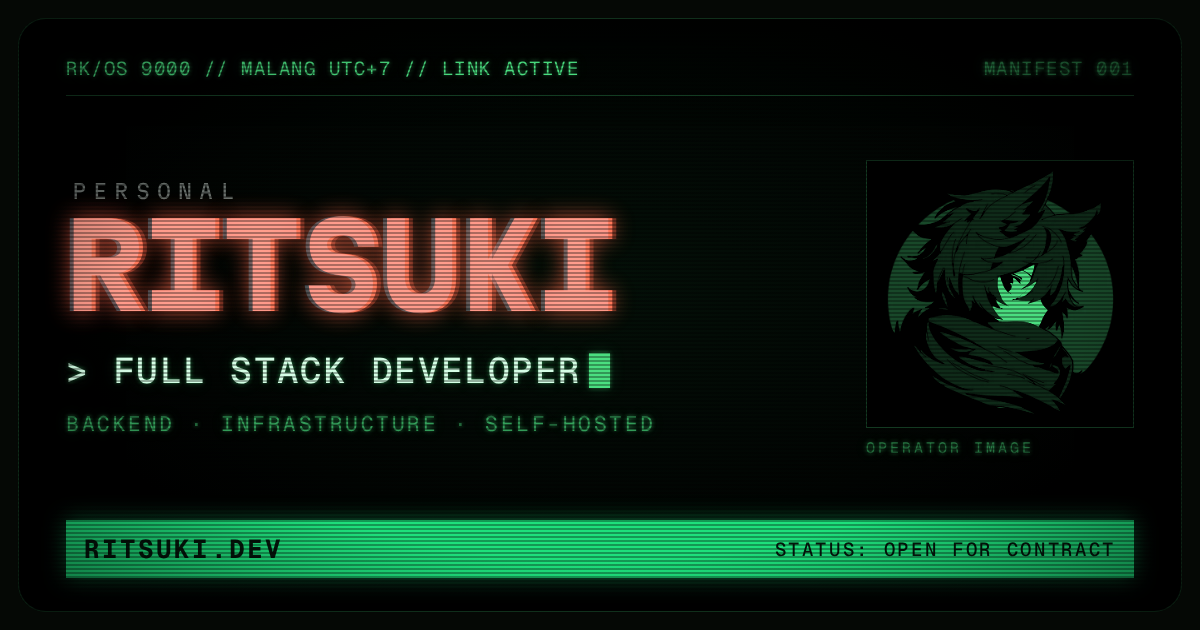
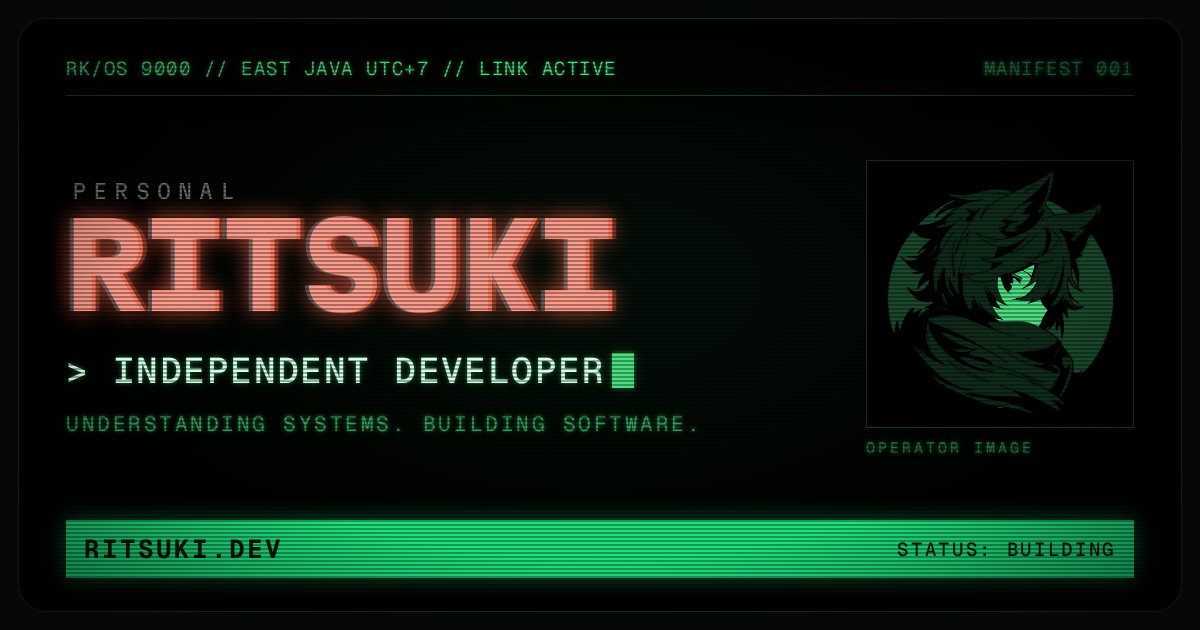
Update information

diff --git a/src/lib/data/content.ts b/src/lib/data/content.ts
@@ -2,8 +2,9 @@ import portrait from '$lib/assets/portrait.webp';
 
 export const PROFILE = {
 	name: 'Ritsuki',
-	role: 'Full stack developer',
-	city: 'Malang',
+	role: 'Independent developer',
+	tagline: 'Understanding Systems. Building Software.',
+	city: 'East Java',
 	country: 'Indonesia',
 	timezone: 'UTC+07:00',
 	email: 'ritsuki.kagerou@gmail.com',
@@ -32,7 +33,7 @@ export const SYSTEM = {
 	wordmark: NAME,
 	manifest: `CARRIER ${NAME} // MANIFEST 001`,
 	footer: `${SYSTEM_UNIT} SERIES / PERSONAL BROADCAST UNIT`,
-	description: `${PROFILE.name} — ${PROFILE.role.toLowerCase()} in ${PROFILE.city}, ${PROFILE.country}. Backend, infrastructure and self-hosted systems. Open for freelance work.`,
+	description: `${PROFILE.name} — ${PROFILE.role.toLowerCase()} in ${PROFILE.city}, ${PROFILE.country}, exploring software, systems and ideas. Backend, infrastructure and self-hosted systems.`,
 	site: 'ritsuki.dev',
 	// search results show the title first: lead with who, then the terminal
 	heading: `${PROFILE.name} — ${PROFILE.role}`,
@@ -45,7 +46,7 @@ export const MENU: MenuEntry[] = [
 	{ id: 'identity', label: 'IDENTITY', blurb: 'Who is running this thing' },
 	{ id: 'capabilities', label: 'CAPABILITY MATRIX', blurb: 'Where the depth actually is' },
 	{ id: 'archive', label: 'WORK ARCHIVE', blurb: 'Systems built and kept running' },
-	{ id: 'transmission', label: 'TRANSMISSION', blurb: 'Open for freelance work' },
+	{ id: 'transmission', label: 'TRANSMISSION', blurb: 'Mail, code and other places' },
 	{ id: 'status', label: 'SYSTEM STATUS', blurb: 'How the work actually goes' }
 ];
 
@@ -74,19 +75,19 @@ export const IDENTITY = {
 		{ key: 'DESIGNATION', value: NAME },
 		{ key: 'ROLE', value: PROFILE.role.toUpperCase() },
 		{ key: 'BASE', value: BASE },
-		{ key: 'ACTIVE SINCE', value: '2026' },
+		{ key: 'ESTABLISHED', value: '2026' },
 		{ key: 'UPLINK', value: PROFILE.timezone },
-		{ key: 'STATUS', value: 'OPEN FOR CONTRACT', tone: 'ok' as const }
+		{ key: 'STATUS', value: 'BUILDING', tone: 'ok' as const }
 	],
 	body: [
-		'Full stack developer. Builds applications, APIs and the systems that carry them — then keeps them running. Most of the work is solo: architecture, implementation, deployment, and the maintenance nobody volunteers for.',
-		'Prefers to understand how a thing works before using it, then find the plainest way to make it work. Self-taught by habit — reads the source, traces a fault to its root, and distrusts complexity that exists only to look advanced. Would rather build the thing than sit in a meeting about building the thing.',
-		'Got here out of curiosity about how computers actually work. That has not changed; only the scale has. Code, then servers, then Linux, then the whole machine and how its parts talk to each other.'
+		`${PROFILE.tagline} Independent developer exploring software, systems, and ideas — turning concepts into working projects. Most projects are built solo, from architecture and implementation to deployment and the ongoing work of keeping things running.`,
+		'Prefers to understand how things work before using them, then find a simple way to make them work. Self-taught by habit — reads the source, traces problems to their roots, and values simplicity over unnecessary complexity. More interested in building something useful than making it look complicated.',
+		"I've always been curious about how computers work, from the code we write to the systems running underneath. That curiosity has led me through software development, Linux, self-hosting, and the infrastructure that connects everything."
 	],
 	marks: [
 		{ label: 'LINUX & SELF-HOSTING', detail: 'runs its own infrastructure' },
-		{ label: 'HOMELAB TINKERER', detail: 'production is a bigger homelab' },
-		{ label: 'CURIOUS BY DEFAULT', detail: 'reads the source, not the summary' }
+		{ label: 'HOMELAB TINKERER', detail: 'experiments locally, deploys deliberately' },
+		{ label: 'CURIOUS BY DEFAULT', detail: 'prefers understanding over assumptions' }
 	]
 };
 
@@ -117,7 +118,7 @@ export const CAPABILITIES: Capability[] = [
 	{
 		code: 'C-03',
 		label: 'DATABASE & DATA SYSTEMS',
-		spec: 'PostgreSQL as the spine, Valkey for cache, ClickHouse for analytics. Schema, indexing, access paths.',
+		spec: 'PostgreSQL for core data, Valkey for caching, ClickHouse for analytics. Schema design, indexing, and query optimization.',
 		tier: 'PRIMARY'
 	},
 	{
@@ -129,7 +130,7 @@ export const CAPABILITIES: Capability[] = [
 	{
 		code: 'C-05',
 		label: 'AUTOMATION & TROUBLESHOOTING',
-		spec: 'Automating repeat work, and reading errors until the real root cause surfaces — not the first symptom.',
+		spec: 'Task automation, log analysis, debugging, and systematic root-cause investigation.',
 		tier: 'PRIMARY'
 	},
 	{
@@ -281,8 +282,11 @@ export type TerminalCard = {
 	href: string;
 };
 
+export type ChannelIcon = 'mail' | 'github' | 'x' | 'steam';
+
 export type Channel = {
 	code: string;
+	icon: ChannelIcon;
 	label: string;
 	handle: string;
 	href: string;
@@ -291,12 +295,11 @@ export type Channel = {
 
 export const TRANSMISSION = {
 	title: 'TRANSMISSION',
-	intro: [
-		'Open for freelance work — backend, infrastructure, or the whole stack when it is better handled by one person who understands all of it. Mail is the fastest route; the other channels are open too.'
-	],
+	intro: ['Mail is the fastest route. Code lives on GitHub; shorter thoughts end up on X.'],
 	channels: [
 		{
 			code: 'TX-01',
+			icon: 'mail',
 			label: 'MAIL',
 			handle: PROFILE.email,
 			href: `mailto:${PROFILE.email}`,
@@ -304,6 +307,7 @@ export const TRANSMISSION = {
 		},
 		{
 			code: 'TX-02',
+			icon: 'github',
 			label: 'GITHUB',
 			handle: `@${PROFILE.github}`,
 			href: `https://github.com/${PROFILE.github}`,
@@ -311,6 +315,7 @@ export const TRANSMISSION = {
 		},
 		{
 			code: 'TX-03',
+			icon: 'x',
 			label: 'X',
 			handle: `@${PROFILE.x}`,
 			href: `https://x.com/${PROFILE.x}`,
@@ -323,6 +328,7 @@ export const TRANSMISSION = {
 		channels: [
 			{
 				code: 'OD-01',
+				icon: 'steam',
 				label: 'STEAM',
 				handle: '/id/_Ritsuki_',
 				href: 'https://steamcommunity.com/id/_Ritsuki_/',
@@ -330,13 +336,8 @@ export const TRANSMISSION = {
 			}
 		] satisfies Channel[]
 	},
-	terminal: {
-		label: 'TERMINAL CARD',
-		command: 'npx ritsuki',
-		note: 'The same manifest, printed in your shell.',
-		href: `https://github.com/${PROFILE.github}/ritsuki-card`
-	} as TerminalCard | null,
-	outro: `Based in ${PROFILE.city}, ${PROFILE.timezone}. Remote by default.`
+	terminal: null as TerminalCard | null,
+	outro: `Based in ${PROFILE.city}, ${PROFILE.timezone}.`
 };
 
 /* --- [5] SYSTEM STATUS ----------------------------------------------- */
@@ -344,7 +345,7 @@ export const TRANSMISSION = {
 export const STATUS = {
 	title: 'SYSTEM STATUS',
 	loopLabel: 'OPERATING LOOP',
-	loopNote: '06 RETURNS TO 01 — THAT IS THE WHOLE METHOD',
+	loopNote: '06 RETURNS TO 01 — REPEAT WITH WHAT YOU LEARNED',
 	stages: [
 		{ label: 'UNDERSTAND', note: 'read the source, not the summary' },
 		{ label: 'BUILD', note: 'smallest thing that can work' },
@@ -354,8 +355,8 @@ export const STATUS = {
 		{ label: 'OPTIMIZE', note: 'only once there are numbers' }
 	],
 	readouts: [
-		{ key: 'AVAILABILITY', value: 'OPEN — FREELANCE' },
-		{ key: 'WORK MODE', value: 'REMOTE / SOLO' },
+		{ key: 'CURRENT FOCUS', value: 'PILIH-IN / KEUANGAN' },
+		{ key: 'WORK MODE', value: 'SOLO' },
 		{ key: 'LOCATION', value: BASE },
 		{ key: 'TIMEZONE', value: PROFILE.timezone }
 	],
@@ -364,7 +365,7 @@ export const STATUS = {
 		{ key: 'COMPONENTS', value: '@RITSUKI.KAGEROU/CRT-UI' },
 		{ key: 'TYPEFACE', value: 'GEIST MONO / MARTIAN MONO' },
 		{ key: 'PALETTE', value: 'PHOSPHOR 4ADE80' },
-		{ key: 'VISUAL DEBT', value: 'NOSTROMO.DESIGN' }
+		{ key: 'DESIGN INFLUENCE', value: 'NOSTROMO.DESIGN' }
 	]
 };
 

diff --git a/src/lib/components/ChannelIcon.svelte b/src/lib/components/ChannelIcon.svelte
@@ -1,0 +1,39 @@
+<script lang="ts">
+	import type { ChannelIcon } from '$lib/data/content';
+
+	type Props = { name: ChannelIcon };
+	let { name }: Props = $props();
+</script>
+
+<!-- Decorative: the label next to it already names the channel. -->
+<svg class="icon" viewBox="0 0 24 24" aria-hidden="true" focusable="false">
+	{#if name === 'github'}
+		<path
+			fill="currentColor"
+			d="M12 .297c-6.63 0-12 5.373-12 12 0 5.303 3.438 9.8 8.205 11.385.6.113.82-.258.82-.577 0-.285-.01-1.04-.015-2.04-3.338.724-4.042-1.61-4.042-1.61C4.422 18.07 3.633 17.7 3.633 17.7c-1.087-.744.084-.729.084-.729 1.205.084 1.838 1.236 1.838 1.236 1.07 1.835 2.809 1.305 3.495.998.108-.776.417-1.305.76-1.605-2.665-.3-5.466-1.332-5.466-5.93 0-1.31.465-2.38 1.235-3.22-.135-.303-.54-1.523.105-3.176 0 0 1.005-.322 3.3 1.23.96-.267 1.98-.399 3-.405 1.02.006 2.04.138 3 .405 2.28-1.552 3.285-1.23 3.285-1.23.645 1.653.24 2.873.12 3.176.765.84 1.23 1.91 1.23 3.22 0 4.61-2.805 5.625-5.475 5.92.42.36.81 1.096.81 2.22 0 1.606-.015 2.896-.015 3.286 0 .315.21.69.825.57C20.565 22.092 24 17.592 24 12.297c0-6.627-5.373-12-12-12"
+		/>
+	{:else if name === 'x'}
+		<path
+			fill="currentColor"
+			d="M18.901 1.153h3.68l-8.04 9.19L24 22.846h-7.406l-5.8-7.584-6.638 7.584H.474l8.6-9.83L0 1.154h7.594l5.243 6.932ZM17.61 20.644h2.039L6.486 3.24H4.298Z"
+		/>
+	{:else if name === 'mail'}
+		<g fill="none" stroke="currentColor" stroke-width="2" stroke-linejoin="round">
+			<rect x="2" y="4.5" width="20" height="15" />
+			<path d="M2 6l10 8 10-8" />
+		</g>
+	{:else if name === 'steam'}
+		<path
+			fill="currentColor"
+			d="M11.979 0C5.678 0 .511 4.86.022 11.037l6.432 2.658c.545-.371 1.203-.59 1.912-.59.063 0 .125.004.188.006l2.861-4.142V8.91c0-2.495 2.028-4.524 4.524-4.524 2.494 0 4.524 2.031 4.524 4.527s-2.03 4.525-4.524 4.525h-.105l-4.076 2.911c0 .052.004.105.004.159 0 1.875-1.515 3.396-3.39 3.396-1.635 0-3.016-1.173-3.331-2.727L.436 15.27C1.862 20.307 6.486 24 11.979 24c6.627 0 11.999-5.373 11.999-12S18.605 0 11.979 0zM7.54 18.21l-1.473-.61c.262.543.714.999 1.314 1.25 1.297.539 2.793-.076 3.332-1.375.263-.63.264-1.319.005-1.949s-.75-1.121-1.377-1.383c-.624-.26-1.29-.249-1.878-.03l1.523.63c.956.4 1.409 1.5 1.009 2.455-.397.957-1.497 1.41-2.454 1.012H7.54zm11.415-9.303c0-1.662-1.353-3.015-3.015-3.015-1.665 0-3.015 1.353-3.015 3.015 0 1.665 1.35 3.015 3.015 3.015 1.663 0 3.015-1.35 3.015-3.015zm-5.273-.005c0-1.252 1.013-2.266 2.265-2.266 1.249 0 2.266 1.014 2.266 2.266 0 1.251-1.017 2.265-2.266 2.265-1.253 0-2.265-1.014-2.265-2.265z"
+		/>
+	{/if}
+</svg>
+
+<style>
+	.icon {
+		width: 1.15em;
+		height: 1.15em;
+		display: block;
+	}
+</style>

diff --git a/src/lib/components/ChannelRow.svelte b/src/lib/components/ChannelRow.svelte
@@ -2,6 +2,7 @@
 	import type { Channel } from '$lib/data/content';
 	import { Typed } from '@ritsuki.kagerou/crt-ui';
 	import { audio } from '$lib/audio.svelte';
+	import ChannelIcon from './ChannelIcon.svelte';
 
 	type Props = { channel: Channel; delay?: number; muted?: boolean };
 	let { channel, delay = 0, muted = false }: Props = $props();
@@ -17,7 +18,7 @@
 	rel={external ? 'me noopener noreferrer' : undefined}
 	onclick={audio.select}
 >
-	<span class="ch__code u-dim">{channel.code}</span>
+	<span class="ch__icon"><ChannelIcon name={channel.icon} /></span>
 	<span class="ch__label">
 		<Typed text={channel.label} speed={18} {delay} ontick={audio.type} />
 	</span>
@@ -29,7 +30,7 @@
 <style>
 	.ch {
 		display: grid;
-		grid-template-columns: 5rem minmax(8rem, 14rem) minmax(0, 1fr) minmax(0, auto) 1.5rem;
+		grid-template-columns: 1.5rem minmax(8rem, 14rem) minmax(0, 1fr) minmax(0, auto) 1.5rem;
 		gap: 1rem;
 		align-items: baseline;
 		padding: 0.85rem 0.9rem;
@@ -55,7 +56,11 @@
 		opacity: 1;
 	}
 
-	.ch__code,
+	.ch__icon {
+		align-self: center;
+		color: var(--phos);
+	}
+
 	.ch__note {
 		font-size: 0.85em;
 		letter-spacing: 0.12em;
@@ -90,7 +95,7 @@
 
 	@media (max-width: 860px) {
 		.ch {
-			grid-template-columns: 4.5rem minmax(0, 1fr) 1.2rem;
+			grid-template-columns: 1.5rem minmax(0, 1fr) 1.2rem;
 		}
 		.ch__handle {
 			grid-column: 2;

diff --git a/src/lib/screens/Status.svelte b/src/lib/screens/Status.svelte
@@ -78,7 +78,8 @@
 		grid-template-columns: 2.5rem var(--rail) minmax(0, 11rem) minmax(0, 1fr);
 		gap: 1rem;
 		align-items: center;
-		padding-block: 0.28rem;
+		--pad: 0.28rem;
+		padding-block: var(--pad);
 		font-size: 0.95em;
 		letter-spacing: 0.1em;
 	}
@@ -100,8 +101,8 @@
 		content: '';
 		position: absolute;
 		left: 50%;
-		top: 0;
-		bottom: 0;
+		top: calc(var(--pad) * -1);
+		bottom: calc(var(--pad) * -1);
 		width: 1px;
 		translate: -0.5px 0;
 		background: var(--rule);
@@ -112,6 +113,11 @@
 
 	.stage:first-child .stage__rail::before {
 		top: 50%;
+	}
+
+	/* the last stage hands the line down to the return elbow */
+	.stage:last-child .stage__rail::before {
+		bottom: calc(var(--pad) * -1);
 	}
 
 	.stage__node {
@@ -242,7 +248,7 @@
 			grid-template-columns: 2.2rem var(--rail) minmax(0, 1fr);
 			gap: 0.15rem 0.7rem;
 			align-items: baseline;
-			padding-block: 0.4rem;
+			--pad: 0.4rem;
 		}
 		.stage__rail {
 			grid-row: 1 / span 2;

diff --git a/scripts/og.html b/scripts/og.html
@@ -237,7 +237,7 @@
 		<div class="tube">
 			<div class="screen">
 				<div class="top">
-					<span>RK/OS 9000 // MALANG UTC+7 // LINK ACTIVE</span>
+					<span>RK/OS 9000 // EAST JAVA UTC+7 // LINK ACTIVE</span>
 					<span class="dim">MANIFEST 001</span>
 				</div>
 
@@ -247,8 +247,8 @@
 							<span class="mark__over">PERSONAL</span>
 							<span class="mark__name" data-text="RITSUKI">RITSUKI</span>
 						</div>
-						<p class="role">&gt; FULL STACK DEVELOPER<span class="cursor"></span></p>
-						<p class="tags">BACKEND · INFRASTRUCTURE · SELF-HOSTED</p>
+						<p class="role">&gt; INDEPENDENT DEVELOPER<span class="cursor"></span></p>
+						<p class="tags">UNDERSTANDING SYSTEMS. BUILDING SOFTWARE.</p>
 					</div>
 
 					<figure class="portrait">
@@ -261,7 +261,7 @@
 
 				<div class="bar">
 					<span>RITSUKI.DEV</span>
-					<small>STATUS: OPEN FOR CONTRACT</small>
+					<small>STATUS: BUILDING</small>
 				</div>
 			</div>
 		</div>

diff --git a/src/routes/site.e2e.ts b/src/routes/site.e2e.ts
@@ -31,7 +31,7 @@ test.describe('for crawlers', () => {
 
 	test('the boot page links to every screen', async ({ page }) => {
 		await page.goto('/');
-		await expect(page.locator('h1')).toHaveText(/full stack developer/i);
+		await expect(page.locator('h1')).toHaveText(/independent developer/i);
 		const index = page.getByRole('navigation', { name: 'Site index' });
 		await expect(index.locator('a[href="?screen=archive"]')).toHaveCount(1);
 		await expect(page.locator('script[type="application/ld+json"]')).toHaveCount(1);

diff --git a/src/lib/seo.ts b/src/lib/seo.ts
@@ -39,7 +39,7 @@ export function personJsonLd(): string {
 		url: `${ORIGIN}/`,
 		address: {
 			'@type': 'PostalAddress',
-			addressLocality: PROFILE.city,
+			addressRegion: PROFILE.city,
 			addressCountry: PROFILE.country
 		},
 		sameAs
